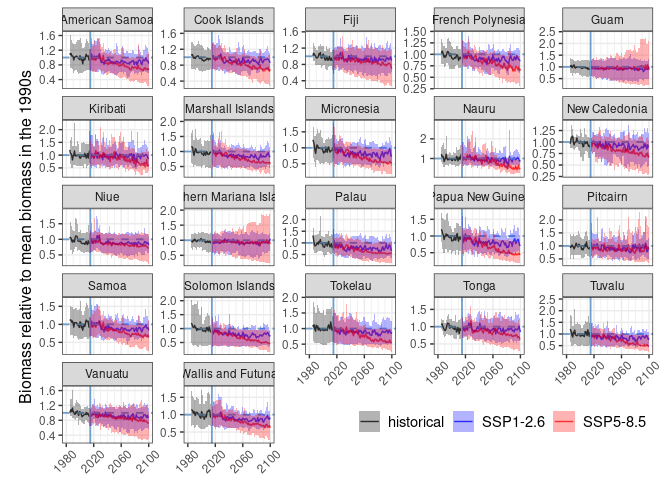
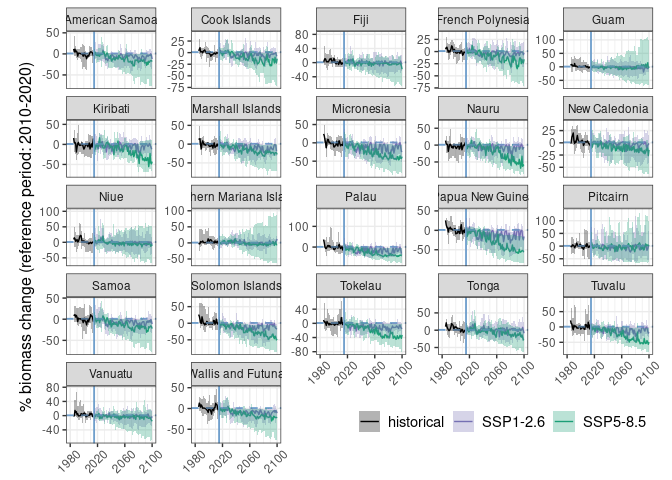
adding stringr to libraries

diff --git a/Scripts/05_Plots_biomass_projections_SouthPacific.md b/Scripts/05_Plots_biomass_projections_SouthPacific.md
@@ -5,8 +5,12 @@ Denisse Fierro Arcos
 
 - <a href="#loading-libraries" id="toc-loading-libraries">Loading
   libraries</a>
-- <a href="#loading-data" id="toc-loading-data">Loading data</a>
-- <a href="#cleaning-data" id="toc-cleaning-data">Cleaning data</a>
+- <a href="#loading-biomass-data-from-fishmip-models"
+  id="toc-loading-biomass-data-from-fishmip-models">Loading biomass data
+  from FishMIP models</a>
+- <a href="#calculating-mean-for-reference-period"
+  id="toc-calculating-mean-for-reference-period">Calculating mean for
+  reference period</a>
 - <a href="#plotting-data" id="toc-plotting-data">Plotting data</a>
   - <a href="#saving-plots" id="toc-saving-plots">Saving plots</a>
 
@@ -16,12 +20,15 @@ Denisse Fierro Arcos
 library(readr)
 library(dplyr)
 library(ggplot2)
+library(stringr)
 ```
 
-## Loading data
+## Loading biomass data from FishMIP models
 
 ``` r
+#Loading keys identifying EEZs
 PICTS_keys <- read_csv("../Outputs/SouthPacific_EEZ-GBR_keys.csv") |> 
+  #Removing original ID - using simplified version
   select(!MRGID)
 ```
 
@@ -35,10 +42,11 @@ PICTS_keys <- read_csv("../Outputs/SouthPacific_EEZ-GBR_keys.csv") |>
     ## ℹ Specify the column types or set `show_col_types = FALSE` to quiet this message.
 
 ``` r
+#Loading FishMIP biomass data
 bio_picts <- read_csv("../Outputs/average_yearly_means_picts_1985-2100.csv")|>
   #Removing GBR data
   filter(mask != 9999) |> 
-   #Rename scenarios to match coral data
+  #Rename scenarios to match coral data
   mutate(scenario = case_when(scenario == "ssp126" ~ "SSP1-2.6",
                               scenario == "ssp585" ~ "SSP5-8.5",
                               T ~ scenario)) 
@@ -53,61 +61,84 @@ bio_picts <- read_csv("../Outputs/average_yearly_means_picts_1985-2100.csv")|>
     ## ℹ Use `spec()` to retrieve the full column specification for this data.
     ## ℹ Specify the column types or set `show_col_types = FALSE` to quiet this message.
 
-## Cleaning data
+## Calculating mean for reference period
+
+Plots created here will show percentage change in biomass over time
+under two emissions scenarios rather than absolute values. Our reference
+period is between 2010 and 2020. From 2010 to 2014, biomass from the
+historical period will be used, and between 2015 and 2020 we will use
+`SSP1-2.6` data as this is the best case scenario.
 
 ``` r
-#Calculating reference mean for reference decade (1990-1999)
-ref_90s <- bio_picts |>
-  filter(year >= 1990 & year < 2000) |> 
-  group_by(mem, mask) |> 
+#Calculating mean for reference decade (2010-2020)
+ref_decade <- bio_picts |>
+  filter(year >= 2010 & year <= 2020) |> 
+  filter(str_detect(scenario, "8.5", negate = T)) |> 
+  group_by(mem, esm, mask) |> 
   summarise(ref = mean(mean_annual_bio))
 ```
 
-    ## `summarise()` has grouped output by 'mem'. You can override using the `.groups`
-    ## argument.
+    ## `summarise()` has grouped output by 'mem', 'esm'. You can override using the
+    ## `.groups` argument.
 
 ``` r
 #Calculating proportion of biomass in relation to reference decade
 bio_plots <- bio_picts |> 
-  left_join(ref_90s, by = c("mem", "mask")) |> 
-  mutate(prop = mean_annual_bio/ref) |> 
+  left_join(ref_decade, by = c("mem", "esm", "mask")) |> 
+  mutate(rel_change = ((mean_annual_bio-ref)/ref)*100) |> 
   #Calculations performed by year and EEZ
   group_by(mask, scenario, year) |> 
   #Apply calculations to biases only
-  summarise(across(prop, 
+  summarise(across(rel_change, 
                    #Listing statistics to be calculated
-                   list(lower = min, mean = mean, max = max), 
+                   list(lower = min, median = median, max = max), 
                    #Setting column names
                    .names = "{.col}_{.fn}")) |> 
-  left_join(PICTS_keys, by = c("mask"="ID")) 
+  ungroup() |> 
+  left_join(PICTS_keys, by = c("mask"="ID"))
 ```
 
     ## `summarise()` has grouped output by 'mask', 'scenario'. You can override using
     ## the `.groups` argument.
 
-    ## Warning in left_join(summarise(group_by(mutate(left_join(bio_picts, ref_90s, : Detected an unexpected many-to-many relationship between `x` and `y`.
+    ## Warning in left_join(ungroup(summarise(group_by(mutate(left_join(bio_picts, : Detected an unexpected many-to-many relationship between `x` and `y`.
     ## ℹ Row 1415 of `x` matches multiple rows in `y`.
     ## ℹ Row 26 of `y` matches multiple rows in `x`.
     ## ℹ If a many-to-many relationship is expected, set `relationship =
     ##   "many-to-many"` to silence this warning.
 
+``` r
+#Checking results
+head(bio_plots)
+```
+
+    ## # A tibble: 6 × 7
+    ##    mask scenario  year rel_change_lower rel_change_median rel_change_max name   
+    ##   <dbl> <chr>    <dbl>            <dbl>             <dbl>          <dbl> <chr>  
+    ## 1  8312 SSP1-2.6  2015          -13.3              -1.81            4.63 New Ca…
+    ## 2  8312 SSP1-2.6  2016          -11.9               0.701          30.7  New Ca…
+    ## 3  8312 SSP1-2.6  2017           -5.50              1.06            4.11 New Ca…
+    ## 4  8312 SSP1-2.6  2018           -9.33              1.33           21.1  New Ca…
+    ## 5  8312 SSP1-2.6  2019           -0.361             3.04           20.1  New Ca…
+    ## 6  8312 SSP1-2.6  2020           -4.98              0.965           5.54 New Ca…
+
 ## Plotting data
 
 ``` r
 bio_plots |> 
-  ggplot(aes(x = year, y = prop_mean, color = scenario))+
-  geom_line(alpha = 0.75, linewidth = 0.5)+
+  ggplot(aes(x = year, y = rel_change_median, color = scenario))+
+  geom_line(linewidth = 0.5)+
   geom_hline(yintercept = 1, color = "#709fcc", linewidth = 0.65, linetype = 2)+
   geom_vline(xintercept = 2015, color = "#709fcc", linewidth = 0.65)+
-  geom_ribbon(aes(ymin = prop_lower, ymax = prop_max, fill = scenario),
+  geom_ribbon(aes(ymin = rel_change_lower, ymax = rel_change_max, fill = scenario),
               alpha = 0.3, color = NA)+
   scale_x_continuous(minor_breaks = seq(1980, 2100, by = 10),
                      breaks = seq(1980, 2100, by = 40), limits = c(1980, 2100))+
   facet_wrap(~name, scales = "free_y")+
-  scale_color_manual(values = c("historical" = "black", "SSP1-2.6" = "blue",
-                                "SSP5-8.5" = "red"))+
-  scale_fill_manual(values = c("historical" = "black", "SSP1-2.6" = "blue",
-                                "SSP5-8.5" = "red"))+
+  scale_color_manual(values = c("historical" = "black", "SSP1-2.6" = "#7570b3",
+                                "SSP5-8.5" = "#1b9e77"))+
+  scale_fill_manual(values = c("historical" = "black", "SSP1-2.6" = "#7570b3",
+                                "SSP5-8.5" = "#1b9e77"))+
   theme_bw()+
   theme(legend.position = "bottom", legend.justification = "right",
         legend.box.spacing = unit(-2, "cm"), panel.grid.minor.y = element_blank(),
@@ -115,7 +146,7 @@ bio_plots |>
         legend.text = element_text(size = 11), axis.title.x = element_blank(),
         legend.title = element_blank(), axis.title.y = element_text(size = 12),
         axis.text.x = element_text(angle = 45, vjust = 0.765, hjust = 0.65))+
-  ylab("Biomass relative to mean biomass in the 1990s")
+  ylab("% biomass change (reference period: 2010-2020)")
 ```
 
 ![](05_Plots_biomass_projections_SouthPacific_files/figure-gfm/unnamed-chunk-4-1.png)<!-- -->
@@ -123,5 +154,5 @@ bio_plots |>
 ### Saving plots
 
 ``` r
-ggsave("new_prop_calcs.pdf", device = "pdf", width = 14, height = 9)
+ggsave("../Outputs/relative_biomass_change.pdf", device = "pdf", width = 14, height = 9)
 ```
